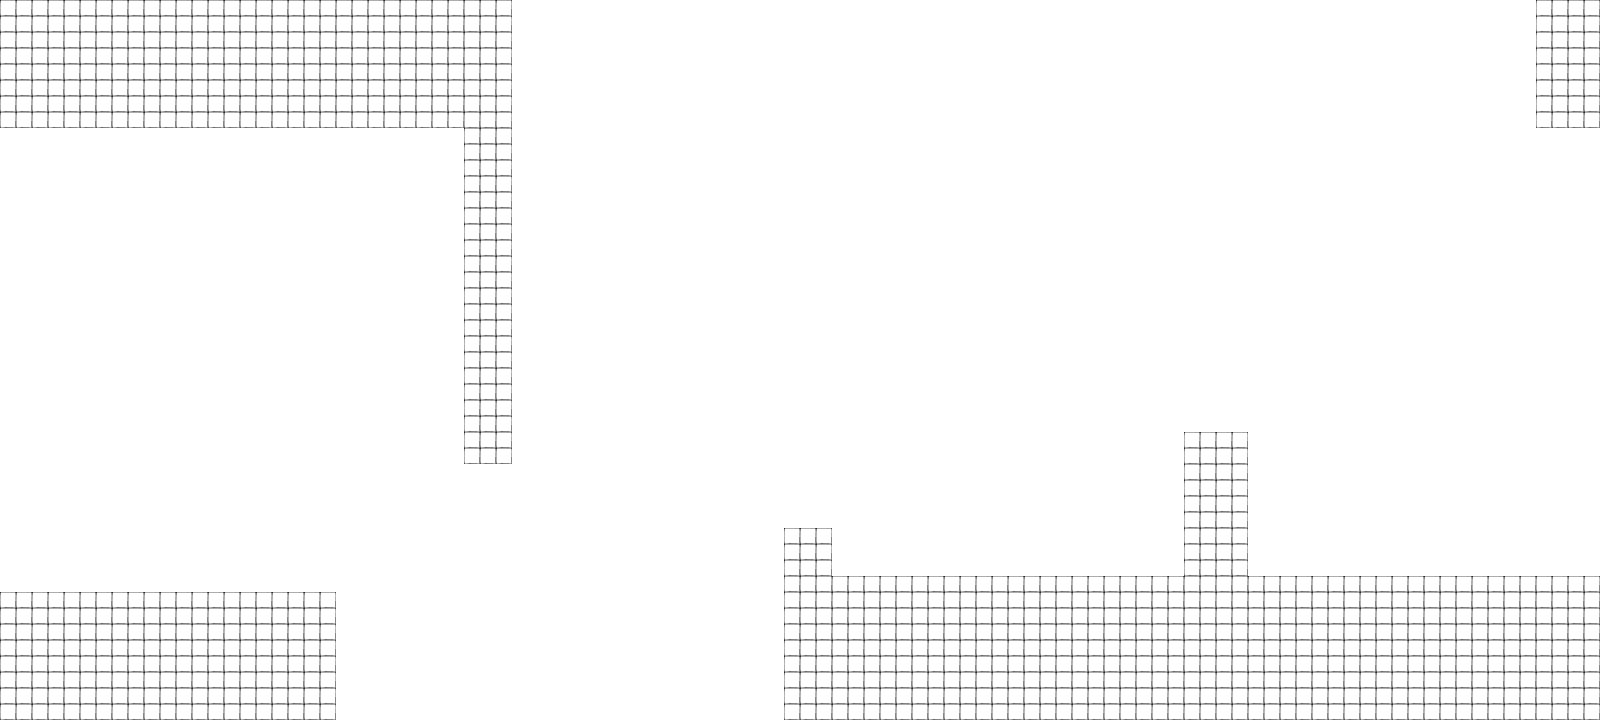
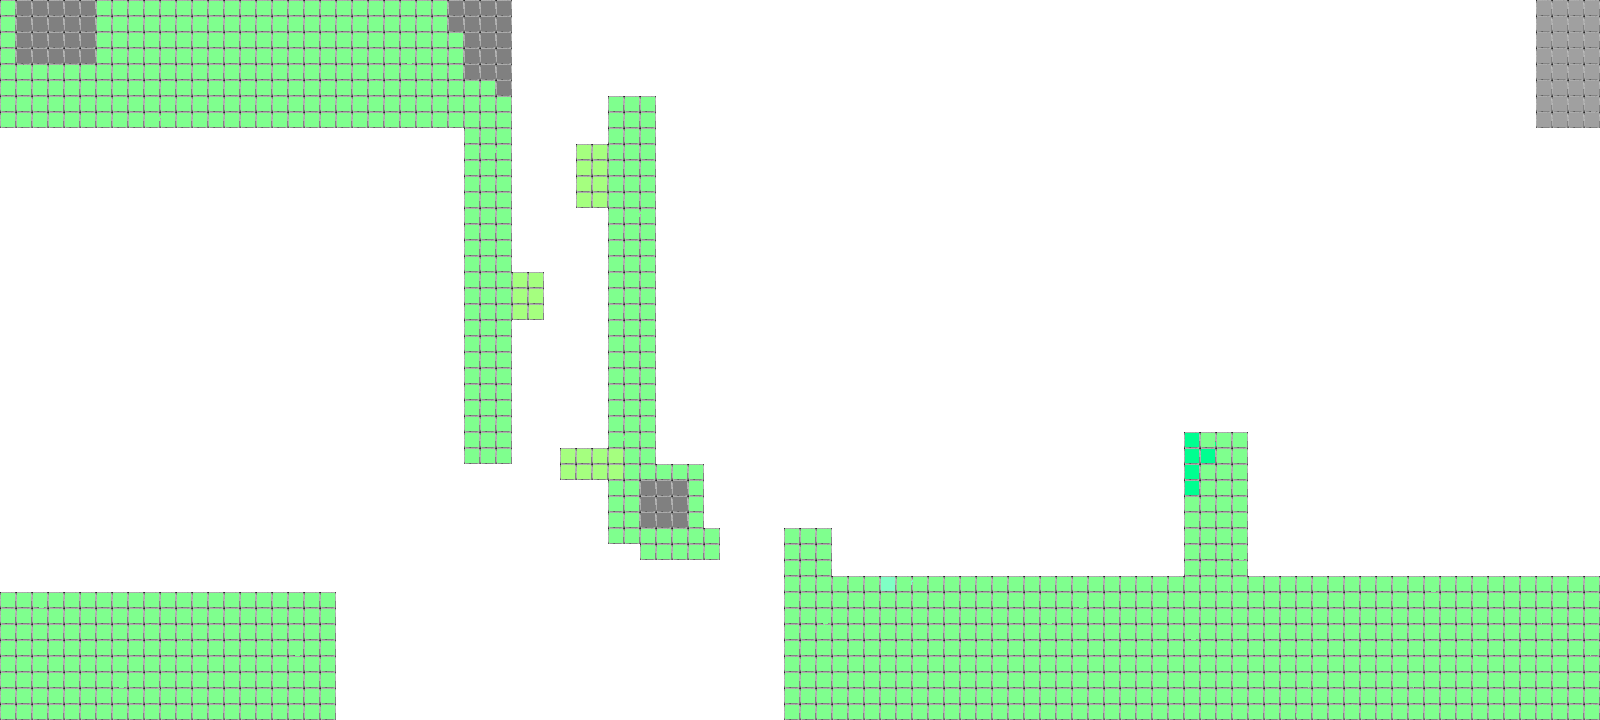
Add files via upload
Add a new map

Changed region(s): [[0.0, 0.0, 1.0, 1.0], [0.0, 0.825, 0.2188, 1.0], [0.9375, 0.0, 1.0, 0.1833]]

diff --git a/colision_lvls.js b/colision_lvls.js
@@ -353,41 +353,87 @@ export const lvl_4 = [
     export const lvl_9 = [
         0,0,0,0,0,0,0,0,0,0,0,0,0,0,0,0,0,0,0,0,0,0,0,0,0,0,0,0,0,0,0,1,0,0,0,0,0,0,0,0,0,0,0,0,0,0,0,0,0,0,0,0,0,0,0,0,0,0,0,0,0,0,0,0,0,0,0,0,0,0,0,0,0,0,0,0,0,0,0,0,0,0,0,0,0,0,0,0,0,0,0,0,0,0,0,0,1,1,1,1,
         0,0,0,0,0,0,0,0,0,0,0,0,0,0,0,0,0,0,0,0,0,0,0,0,0,0,0,0,0,0,0,1,0,0,0,0,0,0,0,0,0,0,0,0,0,0,0,0,0,0,0,0,0,0,0,0,0,0,0,0,0,0,0,0,0,0,0,0,0,0,0,0,0,0,0,0,0,0,0,0,0,0,0,0,0,0,0,0,0,0,0,0,0,0,0,0,1,1,1,1,
-        0,0,0,0,0,0,0,0,0,0,0,0,0,0,0,0,0,0,0,0,0,0,0,0,0,0,0,0,0,0,0,0,0,0,0,0,0,0,0,0,0,0,0,0,0,0,0,0,0,0,0,0,0,0,0,0,0,0,0,0,0,0,0,0,0,0,0,0,0,0,0,0,0,0,0,0,0,0,0,0,0,0,0,0,0,0,0,0,0,0,0,0,0,0,0,0,1,1,1,1,
-        0,0,0,0,0,0,0,0,0,0,0,0,0,0,0,0,0,0,0,0,0,0,0,0,0,0,0,0,0,0,0,0,0,0,0,0,0,0,0,0,0,0,0,0,0,0,0,0,0,0,0,0,0,0,0,0,0,0,0,0,0,0,0,0,0,0,0,0,0,0,0,0,0,0,0,0,0,0,0,0,0,0,0,0,0,0,0,0,0,0,0,0,0,0,0,0,1,1,1,1,
-        0,0,0,0,0,0,0,0,0,0,0,0,0,0,0,0,0,0,0,0,0,0,0,0,0,0,0,0,0,0,0,0,0,0,0,0,0,0,0,0,0,0,0,0,0,0,0,0,0,0,0,0,0,0,0,0,0,0,0,0,0,0,0,0,0,0,0,0,0,0,0,0,0,0,0,0,0,0,0,0,0,0,0,0,0,0,0,0,0,0,0,0,0,0,0,0,1,1,1,1,
-        0,0,0,0,0,0,0,0,0,0,0,0,0,0,0,0,0,0,0,0,0,0,0,0,0,0,0,0,0,0,0,0,0,0,0,0,0,0,0,0,0,0,0,0,0,0,0,0,0,0,0,0,0,0,0,0,0,0,0,0,0,0,0,0,0,0,0,0,0,0,0,0,0,0,0,0,0,0,0,0,0,0,0,0,0,0,0,0,0,0,0,0,0,0,0,0,1,1,1,1,
-        0,0,0,0,0,0,0,0,0,0,0,0,0,0,0,0,0,0,0,0,0,0,0,0,0,0,0,0,0,0,0,0,0,0,0,0,0,0,0,0,0,0,0,0,0,0,0,0,0,0,0,0,0,0,0,0,0,0,0,0,0,0,0,0,0,0,0,0,0,0,0,0,0,0,0,0,0,0,0,0,0,0,0,0,0,0,0,0,0,0,0,0,0,0,0,0,1,1,1,1,
-        0,0,0,0,0,0,0,0,0,0,0,0,0,0,0,0,0,0,0,0,0,0,0,0,0,0,0,0,0,0,0,0,0,0,0,0,0,0,0,0,0,0,0,0,0,0,0,0,0,0,0,0,0,0,0,0,0,0,0,0,0,0,0,0,0,0,0,0,0,0,0,0,0,0,0,0,0,0,0,0,0,0,0,0,0,0,0,0,0,0,0,0,0,0,0,0,1,1,1,1,
-        0,0,0,0,0,0,0,0,0,0,0,0,0,0,0,0,0,0,0,0,0,0,0,0,0,0,0,0,0,1,1,1,0,0,0,0,0,0,0,0,0,0,0,0,0,0,0,0,0,0,0,0,0,0,0,0,0,0,0,0,0,0,0,0,0,0,0,0,0,0,0,0,0,0,0,0,0,0,0,0,0,0,0,0,0,0,0,0,0,0,0,0,0,0,0,0,0,0,0,0,
-        0,0,0,0,0,0,0,0,0,0,0,0,0,0,0,0,0,0,0,0,0,0,0,0,0,0,0,0,0,1,1,1,0,0,0,0,0,0,0,0,0,0,0,0,0,0,0,0,0,0,0,0,0,0,0,0,0,0,0,0,0,0,0,0,0,0,0,0,0,0,0,0,0,0,0,0,0,0,0,0,0,0,0,0,0,0,0,0,0,0,0,0,0,0,0,0,0,0,0,0,
-        0,0,0,0,0,0,0,0,0,0,0,0,0,0,0,0,0,0,0,0,0,0,0,0,0,0,0,0,0,1,1,1,0,0,0,0,0,0,0,0,0,0,0,0,0,0,0,0,0,0,0,0,0,0,0,0,0,0,0,0,0,0,0,0,0,0,0,0,0,0,0,0,0,0,0,0,0,0,0,0,0,0,0,0,0,0,0,0,0,0,0,0,0,0,0,0,0,0,0,0,
-        0,0,0,0,0,0,0,0,0,0,0,0,0,0,0,0,0,0,0,0,0,0,0,0,0,0,0,0,0,1,1,1,0,0,0,0,0,0,0,0,0,0,0,0,0,0,0,0,0,0,0,0,0,0,0,0,0,0,0,0,0,0,0,0,0,0,0,0,0,0,0,0,0,0,0,0,0,0,0,0,0,0,0,0,0,0,0,0,0,0,0,0,0,0,0,0,0,0,0,0,
-        0,0,0,0,0,0,0,0,0,0,0,0,0,0,0,0,0,0,0,0,0,0,0,0,0,0,0,0,0,1,1,1,0,0,0,0,0,0,0,0,0,0,0,0,0,0,0,0,0,0,0,0,0,0,0,0,0,0,0,0,0,0,0,0,0,0,0,0,0,0,0,0,0,0,0,0,0,0,0,0,0,0,0,0,0,0,0,0,0,0,0,0,0,0,0,0,0,0,0,0,
-        0,0,0,0,0,0,0,0,0,0,0,0,0,0,0,0,0,0,0,0,0,0,0,0,0,0,0,0,0,1,1,1,0,0,0,0,0,0,0,0,0,0,0,0,0,0,0,0,0,0,0,0,0,0,0,0,0,0,0,0,0,0,0,0,0,0,0,0,0,0,0,0,0,0,0,0,0,0,0,0,0,0,0,0,0,0,0,0,0,0,0,0,0,0,0,0,0,0,0,0,
-        0,0,0,0,0,0,0,0,0,0,0,0,0,0,0,0,0,0,0,0,0,0,0,0,0,0,0,0,0,1,1,1,0,0,0,0,0,0,0,0,0,0,0,0,0,0,0,0,0,0,0,0,0,0,0,0,0,0,0,0,0,0,0,0,0,0,0,0,0,0,0,0,0,0,0,0,0,0,0,0,0,0,0,0,0,0,0,0,0,0,0,0,0,0,0,0,0,0,0,0,
-        0,0,0,0,0,0,0,0,0,0,0,0,0,0,0,0,0,0,0,0,0,0,0,0,0,0,0,0,0,1,1,1,0,0,0,0,0,0,0,0,0,0,0,0,0,0,0,0,0,0,0,0,0,0,0,0,0,0,0,0,0,0,0,0,0,0,0,0,0,0,0,0,0,0,0,0,0,0,0,0,0,0,0,0,0,0,0,0,0,0,0,0,0,0,0,0,0,0,0,0,
-        0,0,0,0,0,0,0,0,0,0,0,0,0,0,0,0,0,0,0,0,0,0,0,0,0,0,0,0,0,1,1,1,0,0,0,0,0,0,0,0,0,0,0,0,0,0,0,0,0,0,0,0,0,0,0,0,0,0,0,0,0,0,0,0,0,0,0,0,0,0,0,0,0,0,0,0,0,0,0,0,0,0,0,0,0,0,0,0,0,0,0,0,0,0,0,0,0,0,0,0,
-        0,0,0,0,0,0,0,0,0,0,0,0,0,0,0,0,0,0,0,0,0,0,0,0,0,0,0,0,0,1,1,1,0,0,0,0,0,0,0,0,0,0,0,0,0,0,0,0,0,0,0,0,0,0,0,0,0,0,0,0,0,0,0,0,0,0,0,0,0,0,0,0,0,0,0,0,0,0,0,0,0,0,0,0,0,0,0,0,0,0,0,0,0,0,0,0,0,0,0,0,
-        0,0,0,0,0,0,0,0,0,0,0,0,0,0,0,0,0,0,0,0,0,0,0,0,0,0,0,0,0,1,1,1,0,0,0,0,0,0,0,0,0,0,0,0,0,0,0,0,0,0,0,0,0,0,0,0,0,0,0,0,0,0,0,0,0,0,0,0,0,0,0,0,0,0,0,0,0,0,0,0,0,0,0,0,0,0,0,0,0,0,0,0,0,0,0,0,0,0,0,0,
-        0,0,0,0,0,0,0,0,0,0,0,0,0,0,0,0,0,0,0,0,0,0,0,0,0,0,0,0,0,1,1,1,0,0,0,0,0,0,0,0,0,0,0,0,0,0,0,0,0,0,0,0,0,0,0,0,0,0,0,0,0,0,0,0,0,0,0,0,0,0,0,0,0,0,0,0,0,0,0,0,0,0,0,0,0,0,0,0,0,0,0,0,0,0,0,0,0,0,0,0,
-        0,0,0,0,0,0,0,0,0,0,0,0,0,0,0,0,0,0,0,0,0,0,0,0,0,0,0,0,0,1,1,1,0,0,0,0,0,0,0,0,0,0,0,0,0,0,0,0,0,0,0,0,0,0,0,0,0,0,0,0,0,0,0,0,0,0,0,0,0,0,0,0,0,0,0,0,0,0,0,0,0,0,0,0,0,0,0,0,0,0,0,0,0,0,0,0,0,0,0,0,
-        0,0,0,0,0,0,0,0,0,0,0,0,0,0,0,0,0,0,0,0,0,0,0,0,0,0,0,0,0,1,1,1,0,0,0,0,0,0,0,0,0,0,0,0,0,0,0,0,0,0,0,0,0,0,0,0,0,0,0,0,0,0,0,0,0,0,0,0,0,0,0,0,0,0,0,0,0,0,0,0,0,0,0,0,0,0,0,0,0,0,0,0,0,0,0,0,0,0,0,0,
-        0,0,0,0,0,0,0,0,0,0,0,0,0,0,0,0,0,0,0,0,0,0,0,0,0,0,0,0,0,1,1,1,0,0,0,0,0,0,0,0,0,0,0,0,0,0,0,0,0,0,0,0,0,0,0,0,0,0,0,0,0,0,0,0,0,0,0,0,0,0,0,0,0,0,0,0,0,0,0,0,0,0,0,0,0,0,0,0,0,0,0,0,0,0,0,0,0,0,0,0,
-        0,0,0,0,0,0,0,0,0,0,0,0,0,0,0,0,0,0,0,0,0,0,0,0,0,0,0,0,0,1,1,1,0,0,0,0,0,0,0,0,0,0,0,0,0,0,0,0,0,0,0,0,0,0,0,0,0,0,0,0,0,0,0,0,0,0,0,0,0,0,0,0,0,0,0,0,0,0,0,0,0,0,0,0,0,0,0,0,0,0,0,0,0,0,0,0,0,0,0,0,
-        0,0,0,0,0,0,0,0,0,0,0,0,0,0,0,0,0,0,0,0,0,0,0,0,0,0,0,0,0,1,1,1,0,0,0,0,0,0,0,0,0,0,0,0,0,0,0,0,0,0,0,0,0,0,0,0,0,0,0,0,0,0,0,0,0,0,0,0,0,0,0,0,0,0,0,0,0,0,0,0,0,0,0,0,0,0,0,0,0,0,0,0,0,0,0,0,0,0,0,0,
-        0,0,0,0,0,0,0,0,0,0,0,0,0,0,0,0,0,0,0,0,0,0,0,0,0,0,0,0,0,1,1,1,0,0,0,0,0,0,0,0,0,0,0,0,0,0,0,0,0,0,0,0,0,0,0,0,0,0,0,0,0,0,0,0,0,0,0,0,0,0,0,0,0,0,0,0,0,0,0,0,0,0,0,0,0,0,0,0,0,0,0,0,0,0,0,0,0,0,0,0,
-        0,0,0,0,0,0,0,0,0,0,0,0,0,0,0,0,0,0,0,0,0,0,0,0,0,0,0,0,0,1,1,1,0,0,0,0,0,0,0,0,0,0,0,0,0,0,0,0,0,0,0,0,0,0,0,0,0,0,0,0,0,0,0,0,0,0,0,0,0,0,0,0,0,0,0,0,0,0,0,0,0,0,0,0,0,0,0,0,0,0,0,0,0,0,0,0,0,0,0,0,
-        0,0,0,0,0,0,0,0,0,0,0,0,0,0,0,0,0,0,0,0,0,0,0,0,0,0,0,0,0,1,1,1,0,0,0,0,0,0,0,0,0,0,0,0,0,0,0,0,0,0,0,0,0,0,0,0,0,0,0,0,0,0,0,0,0,0,0,0,0,0,0,0,0,0,1,1,1,1,0,0,0,0,0,0,0,0,0,0,0,0,0,0,0,0,0,0,0,0,0,0,
-        0,0,0,0,0,0,0,0,0,0,0,0,0,0,0,0,0,0,0,0,0,0,0,0,0,0,0,0,0,1,1,1,0,0,0,0,0,0,0,0,0,0,0,0,0,0,0,0,0,0,0,0,0,0,0,0,0,0,0,0,0,0,0,0,0,0,0,0,0,0,0,0,0,0,1,1,1,1,0,0,0,0,0,0,0,0,0,0,0,0,0,0,0,0,0,0,0,0,0,0,
-        0,0,0,0,0,0,0,0,0,0,0,0,0,0,0,0,0,0,0,0,0,0,0,0,0,0,0,0,0,0,0,0,0,0,0,0,0,0,0,0,0,0,0,0,0,0,0,0,0,0,0,0,0,0,0,0,0,0,0,0,0,0,0,0,0,0,0,0,0,0,0,0,0,0,1,1,1,1,0,0,0,0,0,0,0,0,0,0,0,0,0,0,0,0,0,0,0,0,0,0,
-        0,0,0,0,0,0,0,0,0,0,0,0,0,0,0,0,0,0,0,0,0,0,0,0,0,0,0,0,0,0,0,0,0,0,0,0,0,0,0,0,0,0,0,0,0,0,0,0,0,0,0,0,0,0,0,0,0,0,0,0,0,0,0,0,0,0,0,0,0,0,0,0,0,0,1,1,1,1,0,0,0,0,0,0,0,0,0,0,0,0,0,0,0,0,0,0,0,0,0,0,
-        0,0,0,0,0,0,0,0,0,0,0,0,0,0,0,0,0,0,0,0,0,0,0,0,0,0,0,0,0,0,0,0,0,0,0,0,0,0,0,0,0,0,0,0,0,0,0,0,0,0,0,0,0,0,0,0,0,0,0,0,0,0,0,0,0,0,0,0,0,0,0,0,0,0,1,1,1,1,0,0,0,0,0,0,0,0,0,0,0,0,0,0,0,0,0,0,0,0,0,0,
-        0,0,0,0,0,0,0,0,0,0,0,0,0,0,0,0,0,0,0,0,0,0,0,0,0,0,0,0,0,0,0,0,0,0,0,0,0,0,0,0,0,0,0,0,0,0,0,0,0,0,0,0,0,0,0,0,0,0,0,0,0,0,0,0,0,0,0,0,0,0,0,0,0,0,1,1,1,1,0,0,0,0,0,0,0,0,0,0,0,0,0,0,0,0,0,0,0,0,0,0,
-        0,0,0,0,0,0,0,0,0,0,0,0,0,0,0,0,0,0,0,0,0,0,0,0,0,0,0,0,0,0,0,0,0,0,0,0,0,0,0,0,0,0,0,0,0,0,0,0,0,1,1,1,0,0,0,0,0,0,0,0,0,0,0,0,0,0,0,0,0,0,0,0,0,0,1,1,1,1,0,0,0,0,0,0,0,0,0,0,0,0,0,0,0,0,0,0,0,0,0,0,
-        0,0,0,0,0,0,0,0,0,0,0,0,0,0,0,0,0,0,0,0,0,0,0,0,0,0,0,0,0,0,0,0,0,0,0,0,0,0,0,0,0,0,0,0,0,0,0,0,0,1,1,1,0,0,0,0,0,0,0,0,0,0,0,0,0,0,0,0,0,0,0,0,0,0,1,1,1,1,0,0,0,0,0,0,0,0,0,0,0,0,0,0,0,0,0,0,0,0,0,0,
+        0,0,0,0,0,0,0,0,0,0,0,0,0,0,0,0,0,0,0,0,0,0,0,0,0,0,0,0,0,0,0,1,0,0,0,0,0,0,0,0,0,0,0,0,0,0,0,0,0,0,0,0,0,0,0,0,0,0,0,0,0,0,0,0,0,0,0,0,0,0,0,0,0,0,0,0,0,0,0,0,0,0,0,0,0,0,0,0,0,0,0,0,0,0,0,0,1,1,1,1,
+        0,0,0,0,0,0,0,0,0,0,0,0,0,0,0,0,0,0,0,0,0,0,0,0,0,0,0,0,0,0,0,1,0,0,0,0,0,0,0,0,0,0,0,0,0,0,0,0,0,0,0,0,0,0,0,0,0,0,0,0,0,0,0,0,0,0,0,0,0,0,0,0,0,0,0,0,0,0,0,0,0,0,0,0,0,0,0,0,0,0,0,0,0,0,0,0,1,1,1,1,
+        0,0,0,0,0,0,0,0,0,0,0,0,0,0,0,0,0,0,0,0,0,0,0,0,0,0,0,0,0,0,0,1,0,0,0,0,0,0,0,0,0,0,0,0,0,0,0,0,0,0,0,0,0,0,0,0,0,0,0,0,0,0,0,0,0,0,0,0,0,0,0,0,0,0,0,0,0,0,0,0,0,0,0,0,0,0,0,0,0,0,0,0,0,0,0,0,1,1,1,1,
+        0,0,0,0,0,0,0,0,0,0,0,0,0,0,0,0,0,0,0,0,0,0,0,0,0,0,0,0,0,0,0,1,0,0,0,0,0,0,0,0,0,0,0,0,0,0,0,0,0,0,0,0,0,0,0,0,0,0,0,0,0,0,0,0,0,0,0,0,0,0,0,0,0,0,0,0,0,0,0,0,0,0,0,0,0,0,0,0,0,0,0,0,0,0,0,0,1,1,1,1,
+        0,0,0,0,0,0,0,0,0,0,0,0,0,0,0,0,0,0,0,0,0,0,0,0,0,0,0,0,0,0,0,1,0,0,0,0,0,0,1,1,1,0,0,0,0,0,0,0,0,0,0,0,0,0,0,0,0,0,0,0,0,0,0,0,0,0,0,0,0,0,0,0,0,0,0,0,0,0,0,0,0,0,0,0,0,0,0,0,0,0,0,0,0,0,0,0,1,1,1,1,
+        0,0,0,0,0,0,0,0,0,0,0,0,0,0,0,0,0,0,0,0,0,0,0,0,0,0,0,0,0,0,0,1,0,0,0,0,0,0,1,1,1,0,0,0,0,0,0,0,0,0,0,0,0,0,0,0,0,0,0,0,0,0,0,0,0,0,0,0,0,0,0,0,0,0,0,0,0,0,0,0,0,0,0,0,0,0,0,0,0,0,0,0,0,0,0,0,1,1,1,1,
+        0,0,0,0,0,0,0,0,0,0,0,0,0,0,0,0,0,0,0,0,0,0,0,0,0,0,0,0,0,1,1,1,0,0,0,0,0,0,1,1,1,0,0,0,0,0,0,0,0,0,0,0,0,0,0,0,0,0,0,0,0,0,0,0,0,0,0,0,0,0,0,0,0,0,0,0,0,0,0,0,0,0,0,0,0,0,0,0,0,0,0,0,0,0,0,0,0,0,0,0,
+        0,0,0,0,0,0,0,0,0,0,0,0,0,0,0,0,0,0,0,0,0,0,0,0,0,0,0,0,0,1,1,1,0,0,0,0,1,1,1,1,1,0,0,0,0,0,0,0,0,0,0,0,0,0,0,0,0,0,0,0,0,0,0,0,0,0,0,0,0,0,0,0,0,0,0,0,0,0,0,0,0,0,0,0,0,0,0,0,0,0,0,0,0,0,0,0,0,0,0,0,
+        0,0,0,0,0,0,0,0,0,0,0,0,0,0,0,0,0,0,0,0,0,0,0,0,0,0,0,0,0,1,1,1,0,0,0,0,1,1,1,0,1,0,0,0,0,0,0,0,0,0,0,0,0,0,0,0,0,0,0,0,0,0,0,0,0,0,0,0,0,0,0,0,0,0,0,0,0,0,0,0,0,0,0,0,0,0,0,0,0,0,0,0,0,0,0,0,0,0,0,0,
+        0,0,0,0,0,0,0,0,0,0,0,0,0,0,0,0,0,0,0,0,0,0,0,0,0,0,0,0,0,1,1,1,0,0,0,0,1,1,1,0,1,0,0,0,0,0,0,0,0,0,0,0,0,0,0,0,0,0,0,0,0,0,0,0,0,0,0,0,0,0,0,0,0,0,0,0,0,0,0,0,0,0,0,0,0,0,0,0,0,0,0,0,0,0,0,0,0,0,0,0,
+        0,0,0,0,0,0,0,0,0,0,0,0,0,0,0,0,0,0,0,0,0,0,0,0,0,0,0,0,0,1,1,1,0,0,0,0,1,1,1,0,1,0,0,0,0,0,0,0,0,0,0,0,0,0,0,0,0,0,0,0,0,0,0,0,0,0,0,0,0,0,0,0,0,0,0,0,0,0,0,0,0,0,0,0,0,0,0,0,0,0,0,0,0,0,0,0,0,0,0,0,
+        0,0,0,0,0,0,0,0,0,0,0,0,0,0,0,0,0,0,0,0,0,0,0,0,0,0,0,0,0,1,1,1,0,0,0,0,0,0,1,0,1,0,0,0,0,0,0,0,0,0,0,0,0,0,0,0,0,0,0,0,0,0,0,0,0,0,0,0,0,0,0,0,0,0,0,0,0,0,0,0,0,0,0,0,0,0,0,0,0,0,0,0,0,0,0,0,0,0,0,0,
+        0,0,0,0,0,0,0,0,0,0,0,0,0,0,0,0,0,0,0,0,0,0,0,0,0,0,0,0,0,1,1,1,0,0,0,0,0,0,1,0,1,0,0,0,0,0,0,0,0,0,0,0,0,0,0,0,0,0,0,0,0,0,0,0,0,0,0,0,0,0,0,0,0,0,0,0,0,0,0,0,0,0,0,0,0,0,0,0,0,0,0,0,0,0,0,0,0,0,0,0,
+        0,0,0,0,0,0,0,0,0,0,0,0,0,0,0,0,0,0,0,0,0,0,0,0,0,0,0,0,0,1,1,1,0,0,0,0,0,0,1,0,1,0,0,0,0,0,0,0,0,0,0,0,0,0,0,0,0,0,0,0,0,0,0,0,0,0,0,0,0,0,0,0,0,0,0,0,0,0,0,0,0,0,0,0,0,0,0,0,0,0,0,0,0,0,0,0,0,0,0,0,
+        0,0,0,0,0,0,0,0,0,0,0,0,0,0,0,0,0,0,0,0,0,0,0,0,0,0,0,0,0,1,1,1,0,0,0,0,0,0,1,0,1,0,0,0,0,0,0,0,0,0,0,0,0,0,0,0,0,0,0,0,0,0,0,0,0,0,0,0,0,0,0,0,0,0,0,0,0,0,0,0,0,0,0,0,0,0,0,0,0,0,0,0,0,0,0,0,0,0,0,0,
+        0,0,0,0,0,0,0,0,0,0,0,0,0,0,0,0,0,0,0,0,0,0,0,0,0,0,0,0,0,1,1,1,1,1,0,0,0,0,1,0,1,0,0,0,0,0,0,0,0,0,0,0,0,0,0,0,0,0,0,0,0,0,0,0,0,0,0,0,0,0,0,0,0,0,0,0,0,0,0,0,0,0,0,0,0,0,0,0,0,0,0,0,0,0,0,0,0,0,0,0,
+        0,0,0,0,0,0,0,0,0,0,0,0,0,0,0,0,0,0,0,0,0,0,0,0,0,0,0,0,0,1,1,1,1,1,0,0,0,0,1,0,1,0,0,0,0,0,0,0,0,0,0,0,0,0,0,0,0,0,0,0,0,0,0,0,0,0,0,0,0,0,0,0,0,0,0,0,0,0,0,0,0,0,0,0,0,0,0,0,0,0,0,0,0,0,0,0,0,0,0,0,
+        0,0,0,0,0,0,0,0,0,0,0,0,0,0,0,0,0,0,0,0,0,0,0,0,0,0,0,0,0,1,1,1,1,1,0,0,0,0,1,0,1,0,0,0,0,0,0,0,0,0,0,0,0,0,0,0,0,0,0,0,0,0,0,0,0,0,0,0,0,0,0,0,0,0,0,0,0,0,0,0,0,0,0,0,0,0,0,0,0,0,0,0,0,0,0,0,0,0,0,0,
+        0,0,0,0,0,0,0,0,0,0,0,0,0,0,0,0,0,0,0,0,0,0,0,0,0,0,0,0,0,1,1,1,0,0,0,0,0,0,1,0,1,0,0,0,0,0,0,0,0,0,0,0,0,0,0,0,0,0,0,0,0,0,0,0,0,0,0,0,0,0,0,0,0,0,0,0,0,0,0,0,0,0,0,0,0,0,0,0,0,0,0,0,0,0,0,0,0,0,0,0,
+        0,0,0,0,0,0,0,0,0,0,0,0,0,0,0,0,0,0,0,0,0,0,0,0,0,0,0,0,0,1,1,1,0,0,0,0,0,0,1,0,1,0,0,0,0,0,0,0,0,0,0,0,0,0,0,0,0,0,0,0,0,0,0,0,0,0,0,0,0,0,0,0,0,0,0,0,0,0,0,0,0,0,0,0,0,0,0,0,0,0,0,0,0,0,0,0,0,0,0,0,
+        0,0,0,0,0,0,0,0,0,0,0,0,0,0,0,0,0,0,0,0,0,0,0,0,0,0,0,0,0,1,1,1,0,0,0,0,0,0,1,0,1,0,0,0,0,0,0,0,0,0,0,0,0,0,0,0,0,0,0,0,0,0,0,0,0,0,0,0,0,0,0,0,0,0,0,0,0,0,0,0,0,0,0,0,0,0,0,0,0,0,0,0,0,0,0,0,0,0,0,0,
+        0,0,0,0,0,0,0,0,0,0,0,0,0,0,0,0,0,0,0,0,0,0,0,0,0,0,0,0,0,1,1,1,0,0,0,0,0,0,1,0,1,0,0,0,0,0,0,0,0,0,0,0,0,0,0,0,0,0,0,0,0,0,0,0,0,0,0,0,0,0,0,0,0,0,0,0,0,0,0,0,0,0,0,0,0,0,0,0,0,0,0,0,0,0,0,0,0,0,0,0,
+        0,0,0,0,0,0,0,0,0,0,0,0,0,0,0,0,0,0,0,0,0,0,0,0,0,0,0,0,0,1,1,1,0,0,0,0,0,0,1,0,1,0,0,0,0,0,0,0,0,0,0,0,0,0,0,0,0,0,0,0,0,0,0,0,0,0,0,0,0,0,0,0,0,0,0,0,0,0,0,0,0,0,0,0,0,0,0,0,0,0,0,0,0,0,0,0,0,0,0,0,
+        0,0,0,0,0,0,0,0,0,0,0,0,0,0,0,0,0,0,0,0,0,0,0,0,0,0,0,0,0,1,1,1,0,0,0,0,0,0,1,0,1,0,0,0,0,0,0,0,0,0,0,0,0,0,0,0,0,0,0,0,0,0,0,0,0,0,0,0,0,0,0,0,0,0,0,0,0,0,0,0,0,0,0,0,0,0,0,0,0,0,0,0,0,0,0,0,0,0,0,0,
+        0,0,0,0,0,0,0,0,0,0,0,0,0,0,0,0,0,0,0,0,0,0,0,0,0,0,0,0,0,1,1,1,0,0,0,0,0,0,1,0,1,0,0,0,0,0,0,0,0,0,0,0,0,0,0,0,0,0,0,0,0,0,0,0,0,0,0,0,0,0,0,0,0,0,0,0,0,0,0,0,0,0,0,0,0,0,0,0,0,0,0,0,0,0,0,0,0,0,0,0,
+        0,0,0,0,0,0,0,0,0,0,0,0,0,0,0,0,0,0,0,0,0,0,0,0,0,0,0,0,0,1,1,1,0,0,0,0,0,0,1,0,1,0,0,0,0,0,0,0,0,0,0,0,0,0,0,0,0,0,0,0,0,0,0,0,0,0,0,0,0,0,0,0,0,0,1,1,1,1,0,0,0,0,0,0,0,0,0,0,0,0,0,0,0,0,0,0,0,0,0,0,
+        0,0,0,0,0,0,0,0,0,0,0,0,0,0,0,0,0,0,0,0,0,0,0,0,0,0,0,0,0,1,1,1,0,0,0,1,1,1,1,0,1,0,0,0,0,0,0,0,0,0,0,0,0,0,0,0,0,0,0,0,0,0,0,0,0,0,0,0,0,0,0,0,0,0,1,1,1,1,0,0,0,0,0,0,0,0,0,0,0,0,0,0,0,0,0,0,0,0,0,0,
+        0,0,0,0,0,0,0,0,0,0,0,0,0,0,0,0,0,0,0,0,0,0,0,0,0,0,0,0,0,0,0,0,0,0,0,1,1,1,1,0,1,1,1,1,0,0,0,0,0,0,0,0,0,0,0,0,0,0,0,0,0,0,0,0,0,0,0,0,0,0,0,0,0,0,1,1,1,1,0,0,0,0,0,0,0,0,0,0,0,0,0,0,0,0,0,0,0,0,0,0,
+        0,0,0,0,0,0,0,0,0,0,0,0,0,0,0,0,0,0,0,0,0,0,0,0,0,0,0,0,0,0,0,0,0,0,0,0,0,0,1,0,0,0,0,1,0,0,0,0,0,0,0,0,0,0,0,0,0,0,0,0,0,0,0,0,0,0,0,0,0,0,0,0,0,0,1,1,1,1,0,0,0,0,0,0,0,0,0,0,0,0,0,0,0,0,0,0,0,0,0,0,
+        0,0,0,0,0,0,0,0,0,0,0,0,0,0,0,0,0,0,0,0,0,0,0,0,0,0,0,0,0,0,0,0,0,0,0,0,0,0,1,0,0,0,0,1,0,0,0,0,0,0,0,0,0,0,0,0,0,0,0,0,0,0,0,0,0,0,0,0,0,0,0,0,0,0,1,1,1,1,0,0,0,0,0,0,0,0,0,0,0,0,0,0,0,0,0,0,0,0,0,0,
+        0,0,0,0,0,0,0,0,0,0,0,0,0,0,0,0,0,0,0,0,0,0,0,0,0,0,0,0,0,0,0,0,0,0,0,0,0,0,1,0,0,0,0,1,0,0,0,0,0,0,0,0,0,0,0,0,0,0,0,0,0,0,0,0,0,0,0,0,0,0,0,0,0,0,1,1,1,1,0,0,0,0,0,0,0,0,0,0,0,0,0,0,0,0,0,0,0,0,0,0,
+        0,0,0,0,0,0,0,0,0,0,0,0,0,0,0,0,0,0,0,0,0,0,0,0,0,0,0,0,0,0,0,0,0,0,0,0,0,0,1,1,1,0,0,1,1,0,0,0,0,1,1,1,0,0,0,0,0,0,0,0,0,0,0,0,0,0,0,0,0,0,0,0,0,0,1,1,1,1,0,0,0,0,0,0,0,0,0,0,0,0,0,0,0,0,0,0,0,0,0,0,
+        0,0,0,0,0,0,0,0,0,0,0,0,0,0,0,0,0,0,0,0,0,0,0,0,0,0,0,0,0,0,0,0,0,0,0,0,0,0,0,0,1,1,1,1,1,0,0,0,0,1,1,1,0,0,0,0,0,0,0,0,0,0,0,0,0,0,0,0,0,0,0,0,0,0,1,1,1,1,0,0,0,0,0,0,0,0,0,0,0,0,0,0,0,0,0,0,0,0,0,0,
         0,0,0,0,0,0,0,0,0,0,0,0,0,0,0,0,0,0,0,0,0,0,0,0,0,0,0,0,0,0,0,0,0,0,0,0,0,0,0,0,0,0,0,0,0,0,0,0,0,1,1,1,0,0,0,0,0,0,0,0,0,0,0,0,0,0,0,0,0,0,0,0,0,0,1,1,1,1,0,0,0,0,0,0,0,0,0,0,0,0,0,0,0,0,0,0,0,0,0,0,
         0,0,0,0,0,0,0,0,0,0,0,0,0,0,0,0,0,0,0,0,0,0,0,0,0,0,0,0,0,0,0,0,0,0,0,0,0,0,0,0,0,0,0,0,0,0,0,0,0,1,1,1,1,1,1,1,1,1,1,1,1,1,1,1,1,1,1,1,1,1,1,1,1,1,1,1,1,1,1,1,1,1,1,1,1,1,1,1,1,1,1,1,1,1,1,1,1,1,1,1,
         1,1,1,1,1,1,1,1,1,1,1,1,1,1,1,1,1,1,1,1,1,0,0,0,0,0,0,0,0,0,0,0,0,0,0,0,0,0,0,0,0,0,0,0,0,0,0,0,0,1,1,1,0,0,0,0,0,0,0,0,0,0,0,0,0,0,0,0,0,0,0,0,0,0,0,0,0,0,0,0,0,0,0,0,0,0,0,0,0,0,0,0,0,0,0,0,0,0,0,0,
         0,0,0,0,0,0,0,0,0,0,0,0,0,0,0,0,0,0,0,1,1,0,0,0,0,0,0,0,0,0,0,0,0,0,0,0,0,0,0,0,0,0,0,0,0,0,0,0,0,1,1,1,0,0,0,0,0,0,0,0,0,0,0,0,0,0,0,0,0,0,0,0,0,0,0,0,0,0,0,0,0,0,0,0,0,0,0,0,0,0,0,0,0,0,0,0,0,0,0,0,
         0,0,0,0,0,0,0,0,0,0,0,0,0,0,0,0,0,0,0,1,1,0,0,0,0,0,0,0,0,0,0,0,0,0,0,0,0,0,0,0,0,0,0,0,0,0,0,0,0,1,1,1,1,0,0,0,0,0,0,0,0,0,0,0,0,0,0,0,0,0,0,0,0,0,0,0,0,0,0,0,0,0,0,0,0,0,0,0,0,0,0,0,0,0,0,0,0,0,0,0,];
+export const lvl_10 = [
+    0,0,0,0,0,0,0,0,0,0,0,0,0,0,0,0,0,0,0,0,0,0,0,0,0,0,0,0,0,0,0,0,0,0,0,0,0,0,0,0,0,0,0,0,0,0,0,0,0,0,
+    0,0,0,0,0,0,0,0,0,0,0,0,0,0,0,0,0,0,0,0,0,0,0,0,0,0,0,0,0,0,0,0,0,0,0,0,0,0,0,0,0,0,0,0,0,0,0,0,0,0,
+    0,0,0,0,0,0,0,0,0,0,0,0,0,0,0,0,0,0,0,0,0,0,0,0,0,0,0,0,0,0,0,0,0,0,0,0,0,0,0,0,0,0,0,0,0,0,0,0,0,0,
+    0,0,0,0,0,0,0,0,0,0,0,0,0,0,0,0,0,0,0,0,0,0,0,0,0,0,0,0,0,0,0,0,0,0,0,0,0,0,0,0,0,0,0,0,0,0,0,0,0,0,
+    0,0,0,0,0,0,0,0,0,0,0,0,0,0,0,0,0,0,0,0,0,0,0,0,0,0,0,0,0,0,0,0,0,0,0,0,0,0,0,0,0,0,0,0,0,0,0,0,0,0,
+    0,0,0,0,0,0,0,0,0,0,0,0,0,0,0,0,0,0,0,0,0,0,0,0,0,0,0,0,0,0,0,0,0,0,0,0,0,0,0,0,0,0,0,0,0,0,0,0,0,0,
+    0,0,0,0,0,0,0,0,0,0,0,0,0,0,0,0,0,0,0,0,0,0,0,0,0,0,0,0,0,0,0,0,0,0,0,0,0,0,0,0,0,0,0,0,0,0,0,0,0,0,
+    0,0,0,0,0,0,0,0,0,0,0,0,0,0,0,0,0,0,0,0,0,0,0,0,0,0,0,0,0,0,0,0,0,0,0,0,0,0,0,0,0,0,0,0,0,0,0,0,0,0,
+    0,0,0,0,0,0,0,0,0,0,0,0,0,0,0,0,0,0,0,0,0,0,0,0,0,0,0,0,0,0,0,0,0,0,0,0,0,0,0,0,0,0,0,0,0,0,0,0,0,0,
+    0,0,0,0,0,0,0,0,0,0,0,0,0,0,0,0,0,0,0,0,0,0,0,0,0,0,0,0,0,0,0,0,0,0,0,0,0,0,0,0,0,0,0,0,0,0,0,0,0,0,
+    0,0,0,0,0,0,0,0,0,0,0,0,0,0,0,0,0,0,0,0,0,0,0,0,0,0,0,0,0,0,0,0,0,0,0,0,0,0,0,0,0,0,0,0,0,0,0,0,0,0,
+    0,0,0,0,0,0,0,0,0,0,0,0,0,0,0,0,0,0,0,0,0,0,0,0,0,0,0,0,0,0,0,0,0,0,0,0,0,0,0,0,0,0,0,0,0,0,0,0,0,0,
+    0,0,0,0,0,0,0,0,0,0,0,0,0,0,0,0,0,0,0,0,0,0,0,0,0,0,0,0,0,0,0,0,0,0,0,0,0,0,0,0,0,0,0,0,0,0,0,0,0,0,
+    0,0,0,0,0,0,0,0,0,0,0,0,0,0,0,0,0,0,0,0,0,0,0,0,0,0,0,0,0,0,0,0,0,0,0,0,0,0,0,0,0,0,0,0,0,0,0,0,0,0,
+    0,0,0,0,0,0,0,0,0,0,0,0,0,0,0,0,0,0,0,0,0,0,0,0,0,0,0,0,0,0,0,0,0,0,0,0,0,0,0,0,0,0,0,0,0,0,0,0,0,0,
+    0,0,0,0,0,0,0,0,0,0,0,0,0,0,0,0,0,0,0,0,0,0,0,0,0,0,0,0,0,0,0,0,0,0,0,0,0,0,0,0,0,0,0,0,0,0,0,0,0,0,
+    0,0,0,0,0,0,0,0,0,0,0,0,0,0,0,0,0,0,0,0,0,0,0,0,0,0,0,0,0,0,0,0,0,0,0,0,0,0,0,0,0,0,0,0,0,0,0,0,0,0,
+    0,0,0,0,0,0,0,0,0,0,0,0,0,0,0,0,0,0,0,0,0,0,0,0,0,0,0,0,0,0,0,0,0,0,0,0,0,0,0,0,0,0,0,0,0,0,0,0,0,0,
+    0,0,0,0,0,0,0,0,0,0,0,0,0,0,0,0,0,0,0,0,0,0,0,0,0,0,0,0,0,0,0,0,0,0,0,0,0,0,0,0,0,0,0,0,0,0,0,0,0,0,
+    0,0,0,0,0,0,0,0,0,0,0,0,0,0,0,0,0,0,0,0,0,0,0,0,0,0,0,0,0,0,0,0,0,0,0,0,0,0,0,0,0,0,0,0,0,0,0,0,0,0,
+    0,0,0,0,0,0,0,0,0,0,0,0,0,0,0,0,0,0,0,0,0,0,0,0,0,0,0,0,0,0,0,0,0,0,0,0,0,0,0,0,0,0,0,0,0,0,0,0,0,0,
+    0,0,0,0,0,0,0,0,0,0,0,0,0,0,0,0,0,0,0,0,0,0,0,0,0,0,0,0,0,0,0,0,0,0,0,0,0,0,0,0,0,0,0,0,0,0,0,0,0,0,
+    0,0,0,0,0,0,0,0,0,0,0,0,0,0,0,0,0,0,0,0,0,0,0,0,0,0,0,0,0,0,0,0,0,0,0,0,0,0,0,0,0,0,0,0,0,0,0,0,0,0,
+    0,0,0,0,0,0,0,0,0,0,0,0,0,0,0,0,0,0,0,0,0,0,0,0,0,0,0,0,0,0,0,0,0,0,0,0,0,0,0,0,0,0,0,0,0,0,0,0,0,0,
+    0,0,0,0,0,0,0,0,0,0,0,0,0,0,0,0,0,0,0,0,0,0,0,0,0,0,0,0,0,0,0,0,0,0,0,0,0,0,0,0,0,0,0,0,0,0,0,0,0,0,
+    0,0,0,0,0,0,0,0,0,0,0,0,0,0,0,0,0,0,0,0,0,0,0,0,0,0,0,0,0,0,0,0,0,0,0,0,0,0,0,0,0,0,0,0,0,0,0,0,0,0,
+    0,0,0,0,0,0,0,0,0,0,0,0,0,0,0,0,0,0,0,0,0,0,0,0,0,0,0,0,0,0,0,0,0,0,0,0,0,0,0,0,0,0,0,0,0,0,0,0,0,0,
+    0,0,0,0,0,0,0,0,0,0,0,0,0,0,0,0,0,0,0,0,0,0,0,0,0,0,0,0,0,0,0,0,0,0,0,0,0,0,0,0,0,0,0,0,0,0,0,0,0,0,
+    0,0,0,0,0,0,0,0,0,0,0,0,0,0,0,0,0,0,0,0,0,0,0,0,0,0,0,0,0,0,0,0,0,0,0,0,0,0,0,0,0,0,0,0,0,0,0,0,0,0,
+    0,0,0,0,0,0,0,0,0,0,0,0,0,0,0,0,0,0,0,0,0,0,0,0,0,0,0,0,0,0,0,0,0,0,0,0,0,0,0,0,0,0,0,0,0,0,0,0,0,0,
+    0,0,0,0,0,0,0,0,0,0,0,0,0,0,0,0,0,0,0,0,0,0,0,0,0,0,0,0,0,0,0,0,0,0,0,0,0,0,0,0,0,0,0,0,0,0,0,0,0,0,
+    0,0,0,0,0,0,0,0,0,0,0,0,0,0,0,0,0,0,0,0,0,0,0,0,0,0,0,0,0,0,0,0,0,0,0,0,0,0,0,0,0,0,0,0,0,0,0,0,0,0,
+    0,0,0,0,0,0,0,0,0,0,0,0,0,0,0,0,0,0,0,0,0,0,0,0,0,0,0,0,0,0,0,0,0,0,0,0,0,0,0,0,0,0,0,0,0,0,0,0,0,0,
+    0,0,0,0,0,0,0,0,0,0,0,0,0,0,0,0,0,0,0,0,0,0,0,0,0,0,0,0,0,0,0,0,0,0,0,0,0,0,0,0,0,0,0,0,0,0,0,0,0,0,
+    0,0,0,0,0,0,0,0,0,0,0,0,0,0,0,0,0,0,0,0,0,0,0,0,0,0,0,0,0,0,0,0,0,0,0,0,0,0,0,0,0,0,0,0,0,0,0,0,0,0,
+    0,0,0,0,0,0,0,0,0,0,0,0,0,0,0,0,0,0,0,0,0,0,0,0,0,0,0,0,0,0,0,0,0,0,0,0,0,0,0,0,0,0,0,0,0,0,0,0,0,0,
+    0,0,0,0,0,0,0,0,0,0,0,0,0,0,0,0,0,0,0,0,0,0,0,0,0,0,0,0,0,0,0,0,0,0,0,0,0,0,0,0,0,0,0,0,0,0,0,0,0,0,
+    0,0,0,0,0,0,0,0,0,0,0,0,0,0,0,0,0,0,0,0,0,0,0,0,0,0,0,0,0,0,0,0,0,0,0,0,0,0,0,0,0,0,0,0,0,0,0,0,0,0,
+    0,0,0,0,0,0,0,0,0,0,0,0,0,0,0,0,0,0,0,0,0,0,0,0,0,0,0,0,0,0,0,0,0,0,0,0,0,0,0,0,0,0,0,0,0,0,0,0,0,0,
+    0,0,0,0,0,0,0,0,0,0,0,0,0,0,0,0,0,0,0,0,0,0,0,0,0,0,0,0,0,0,0,0,0,0,0,0,0,0,0,0,0,0,0,0,0,0,0,0,0,0,
+    0,0,0,0,0,0,0,0,0,0,0,0,0,0,0,0,0,0,0,0,0,0,0,0,0,0,0,0,0,0,0,0,0,0,0,0,0,0,0,0,0,0,0,0,0,0,0,0,0,0,
+    0,0,0,0,0,0,0,0,0,0,0,0,0,0,0,0,0,0,0,0,0,0,0,0,0,0,0,0,0,0,0,0,0,0,0,0,0,0,0,0,0,0,0,0,0,0,0,0,0,0,
+    0,0,0,0,0,0,0,0,0,0,0,0,0,0,0,0,0,0,0,0,0,0,0,0,0,0,0,0,0,0,0,0,0,0,0,0,0,0,0,0,0,0,0,0,0,0,0,0,0,0,
+    0,0,0,0,0,0,0,0,0,0,0,0,0,0,0,0,0,0,0,0,0,0,0,0,0,0,0,0,0,0,0,0,0,0,0,0,0,0,0,0,0,0,0,0,0,0,0,0,0,0,
+    0,0,0,0,0,0,0,0,0,0,0,0,0,0,0,0,0,0,0,0,0,0,0,0,0,0,0,0,0,0,0,0,0,0,0,0,0,0,0,0,0,0,0,0,0,0,0,0,0,0,];        

diff --git a/game.js b/game.js
@@ -1,7 +1,7 @@
 import Pointy from "./pointy.js";
 import Enemy from "./enemy.js";
 import MovingPlatform from "./movingplatform.js";
-import lvl_1 ,{lvl_2,lvl_3,lvl_4,lvl_5,lvl_6,lvl_7,lvl_8,lvl_9} from "./colision_lvls.js"
+import lvl_1 ,{lvl_2,lvl_3,lvl_4,lvl_5,lvl_6,lvl_7,lvl_8,lvl_9,lvl_10} from "./colision_lvls.js"
 //import lvl_2 from "./colision_lvls.js"
 import Turtle from "./turtle.js";
 import Portal from "./portal.js";
@@ -59,6 +59,8 @@ this.app.stage = new PIXI.display.Stage();
    this.levels_colision.push(lvl_7);
    this.levels_colision.push(lvl_8);
    this.levels_colision.push(lvl_9);
+   this.levels_colision.push(lvl_10);
+
 
 
 
@@ -106,6 +108,7 @@ this.loader.add('lvl','./assets/lvl_2.png')
 .add('lvl7','./assets/lvl7_map.png')
 .add('lvl8','./assets/lvl8_map.png')
 .add('lvl9','./assets/lvl9_map.png')
+.add('lvl10','./assets/lvl10_map.png')
 
 
 
@@ -170,6 +173,7 @@ setup(loader,resorces){
   this.pointy_character.right_animation = pointy_texture_right;
 
 
+  this.createLVLs();
 
 
 
@@ -203,6 +207,7 @@ setup(loader,resorces){
   this.enemy_list.push(this.spce_enemy4);
   this.enemy_list.push(this.spce_enemy5);
   this.enemy_list.push(this.spce_enemy6);
+  var lvl_2_door = new Door(this,2553,572, this.levels_array[0]);
   this.enemy_list.push(lvl_2_door);
 
 
@@ -216,8 +221,6 @@ setup(loader,resorces){
 
   this.enemy_list.push(this.portal);
 
-  this.createLVLs();
-  var lvl_2_door = new Door(this,2553,572, this.levels_array[0]);
 
   
   this.enemy_list.forEach(element => {
@@ -408,10 +411,8 @@ createLVLs(){
  level8.setStartPoint(19,434);
  var level8_platform = new MovingPlatform(300,446,this,16,500);
  var level8_platform_2 = new MovingPlatform(303,242,this,16,600);
-
  level8_platform.setSpeed(4);
  level8_platform_2.setSpeed(4);
-
  level8.pushEntety(level8_platform);
  level8.pushEntety(level8_platform_2);
 
@@ -422,21 +423,33 @@ createLVLs(){
  level9.pushEntety(balon_9_1);
  var tun_9_1 = new Tun(1564,43,this);
  var tun_9_2 = new Tun(500,43,this);
+ var tun_9_3 = new Tun(61,29,this);
+ var tun_9_4 = new Tun(661,512,this);
+
+
 
  level9.pushEntety(tun_9_1);
  level9.pushEntety(tun_9_2);
+ level9.pushEntety(tun_9_3);
+ level9.pushEntety(tun_9_4);
+
+
+ var level10 = new Level(this,lvl_9,this.loader.resources.lvl10.texture,0,9,0);
+ level9.setTileWH(50,40);
+ level9.setStartPoint(27,494);
+ var level10_platform = new MovingPlatform(300,446,this,16,500);
+ var level10_platform_2 = new MovingPlatform(303,242,this,16,600);
+ level10_platform.setSpeed(4);
+ level10_platform_2.setSpeed(4);
+
+ level10.pushEntety(level10_platform);
+ level10.pushEntety(level10_platform_2);
+
+ level10.start();
 
 
 
 
-
-
-
-
-
-
-
- level9.start();
 
   var door_lvl_2 = new Door(this,763,462,level3);
   level2.pushEntety(door_lvl_2);
@@ -457,6 +470,9 @@ createLVLs(){
   var door_lvl_7 = new Door(this,772,415,level8);
   level7.pushEntety(door_lvl_7)
 
+  var door_lvl_8 = new Door(this,772,125,level9);
+  level8.pushEntety(door_lvl_8)
+
 
   //level.start();
   this.levels_array.push(level2);
@@ -467,6 +483,9 @@ createLVLs(){
   this.levels_array.push(level7);
   this.levels_array.push(level8);
   this.levels_array.push(level9);
+
+ // level8.start();
+
 
 
 

diff --git a/proiectil.js b/proiectil.js
@@ -22,7 +22,7 @@ export default class Proiectil {
       this.parent = parent;
       this.parentContainer = game.container;
       this.targetLocalPos = this.parent.tunContainer.toLocal(new PIXI.Point(this.target_x,this.target_y));
-      this.speed = 4;
+      this.speed = 10;
       this.destroyed = false;
       this.sprite.rotation = -parent.rotation
 
@@ -31,7 +31,7 @@ export default class Proiectil {
   
     update(deltaTime) {
       this.frame_counter++
-      if(this.frame_counter > 600)
+      if(this.frame_counter > 300)
       {
         this.pos_x =0 ;
         this.pos_y =0 ;
@@ -53,7 +53,7 @@ export default class Proiectil {
   
     move(deltaTime) {  
       const dx = this.targetLocalPos.x;
-      const dy = this.targetLocalPos.y;
+      const dy = this.targetLocalPos.y + 40;
       const angle = Math.atan2(dy, dx);
       this.sprite.rotation = angle ;
 
@@ -66,7 +66,10 @@ export default class Proiectil {
   
     hitTest() 
     {
-      var pointy = this.parent.tunContainer.toLocal(new PIXI.Point(this.target.pos_x,this.target.pos_y));
+      this.target_x = this.target.pos_x;
+      this.target_y = this.target.pos_y;
+      var globalTargetPos = this.parentContainer.toGlobal(new PIXI.Point(this.target_x, this.target_y));
+      var pointy = this.parent.tunContainer.toLocal(globalTargetPos);
       if(this.colison_with(pointy))
           this.game.levels_array[this.game.current_lvl - 1].start();
 
@@ -81,9 +84,9 @@ export default class Proiectil {
     }
 
     colison_with(pointy) {
-      if (this.pos_x < pointy.x + 50 &&
+      if ((this.pos_x + 5)< pointy.x + 40 &&
         this.pos_x + this.w > pointy.x &&
-        this.pos_y < pointy.y + 50 &&
+        (this.pos_y + 5)< pointy.y + 60 &&
         this.h + this.pos_y > pointy.y) //{
         return true;
       else {

diff --git a/script.py b/script.py
@@ -3,7 +3,7 @@
 colision_string = '['
 for i in range(45):
   colision_string += '\n'
-  for i in range(100):
+  for i in range(50):
    colision_string += '0,'
 colision_string += ']'
 print(colision_string)
